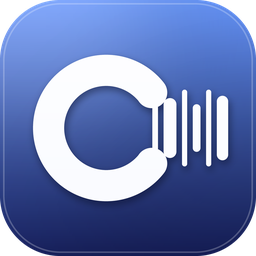
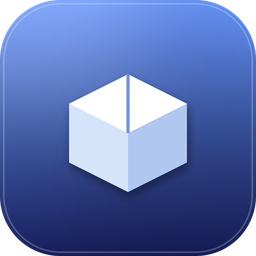
Icona definitiva: scatola di magazzino

Changed region(s): [[0.125, 0.1875, 0.9062, 0.8125]]

diff --git a/make_icon.py b/make_icon.py
@@ -1,8 +1,7 @@
-"""Genera l'icona di Census ERP: C stilizzata + codice a barre su gradiente blu.
+"""Genera l'icona di Census ERP: scatola di magazzino isometrica su gradiente blu.
 
 Output: icon.png (1024), icon_512.png, icon_256.png, icon.ico (multi-size), icon.icns (Mac).
 """
-import math
 from PIL import Image, ImageDraw, ImageFilter, ImageOps
 
 S = 1024          # dimensione finale
@@ -11,106 +10,82 @@ W = S * F
 
 C_TOP = (104, 152, 255)    # blu acceso in alto
 C_BOT = (24, 33, 96)       # indaco profondo in basso
-WHITE = (255, 255, 255, 255)
+
+# Facce della scatola (top più chiara, lati progressivamente più scuri)
+FACE_TOP   = (255, 255, 255, 255)
+FACE_LEFT  = (214, 228, 250, 255)
+FACE_RIGHT = (176, 200, 240, 255)
+FLAP_TOP   = (236, 244, 255, 255)
+FLAP_INNER = (198, 214, 242, 255)
 
 
-def _radial_highlight(size, center, radius, color):
-    """Crea un alone radiale morbido (per il riflesso 'vetro')."""
-    layer = Image.new('L', (size, size), 0)
-    d = ImageDraw.Draw(layer)
+def _squircle_mask():
+    m = Image.new('L', (W, W), 0)
+    ImageDraw.Draw(m).rounded_rectangle((0, 0, W - 1, W - 1), radius=int(W * 0.235), fill=255)
+    return m
+
+
+def _radial(center, radius, color):
+    layer = Image.new('L', (W, W), 0)
     cx, cy = center
-    d.ellipse((cx - radius, cy - radius, cx + radius, cy + radius), fill=255)
+    ImageDraw.Draw(layer).ellipse((cx - radius, cy - radius, cx + radius, cy + radius), fill=255)
     layer = layer.filter(ImageFilter.GaussianBlur(radius * 0.55))
-    out = Image.new('RGBA', (size, size), (0, 0, 0, 0))
-    solid = Image.new('RGBA', (size, size), color)
-    out.paste(solid, (0, 0), layer)
+    out = Image.new('RGBA', (W, W), (0, 0, 0, 0))
+    out.paste(Image.new('RGBA', (W, W), color), (0, 0), layer)
     return out
 
 
 def build():
-    radius = int(W * 0.235)
+    mask = _squircle_mask()
 
-    # --- Sfondo: squircle con gradiente verticale ---
+    # --- Sfondo squircle con gradiente verticale ---
     grad = Image.linear_gradient('L').resize((W, W))
-    bg_rgb = ImageOps.colorize(grad, black=C_TOP, white=C_BOT).convert('RGBA')
-
-    mask = Image.new('L', (W, W), 0)
-    ImageDraw.Draw(mask).rounded_rectangle((0, 0, W - 1, W - 1), radius=radius, fill=255)
-
+    bg = ImageOps.colorize(grad, black=C_TOP, white=C_BOT).convert('RGBA')
     img = Image.new('RGBA', (W, W), (0, 0, 0, 0))
-    img.paste(bg_rgb, (0, 0), mask)
+    img.paste(bg, (0, 0), mask)
 
     def clip(layer):
-        """Ritaglia un layer alla forma dello squircle."""
         return Image.composite(layer, Image.new('RGBA', (W, W), (0, 0, 0, 0)), mask)
 
-    # Riflesso 'vetro' diagonale in alto a sinistra
-    img = Image.alpha_composite(img, clip(
-        _radial_highlight(W, (W * 0.30, W * 0.20), W * 0.42, (255, 255, 255, 46))))
-    # Vignettatura scura in basso a destra per dare profondità
-    img = Image.alpha_composite(img, clip(
-        _radial_highlight(W, (W * 0.86, W * 0.92), W * 0.50, (8, 12, 44, 70))))
+    # Riflesso vetro + vignettatura per profondità
+    img = Image.alpha_composite(img, clip(_radial((W * 0.30, W * 0.20), W * 0.42, (255, 255, 255, 46))))
+    img = Image.alpha_composite(img, clip(_radial((W * 0.86, W * 0.92), W * 0.50, (8, 12, 44, 70))))
 
-    # Bordo interno luminoso (effetto bevel)
+    # Bordo interno luminoso (bevel)
     ring = Image.new('RGBA', (W, W), (0, 0, 0, 0))
     ImageDraw.Draw(ring).rounded_rectangle(
         (int(W * 0.012), int(W * 0.012), int(W - W * 0.012), int(W - W * 0.012)),
-        radius=int(radius * 0.96), outline=(255, 255, 255, 60), width=int(W * 0.006))
+        radius=int(W * 0.235 * 0.96), outline=(255, 255, 255, 60), width=int(W * 0.006))
     img = Image.alpha_composite(img, clip(ring))
 
-    # --- Motivo: C aperta + codice a barre realistico ---
-    cx, cy = W * 0.415, W * 0.50
-    stroke = W * 0.122
-    r_mid = W * 0.225
-    a1, a2 = 38, 322  # apertura della C verso destra
+    # --- Scatola isometrica chiusa (design pulito approvato) ---
+    cx, cy = W * 0.50, W * 0.52
+    s = W * 0.23       # mezza larghezza/altezza del cubo
 
-    def draw_arc(color, off=(0, 0), width_scale=1.0):
-        layer = Image.new('RGBA', (W, W), (0, 0, 0, 0))
+    def draw_box(layer):
         d = ImageDraw.Draw(layer)
-        sw = stroke * width_scale
-        r_out = r_mid + sw / 2
-        ox, oy = off
-        box = (cx - r_out + ox, cy - r_out + oy, cx + r_out + ox, cy + r_out + oy)
-        d.arc(box, start=a1, end=a2, fill=color, width=int(sw))
-        for a in (a1, a2):
-            rad = math.radians(a)
-            px, py = cx + r_mid * math.cos(rad) + ox, cy + r_mid * math.sin(rad) + oy
-            d.ellipse((px - sw / 2, py - sw / 2, px + sw / 2, py + sw / 2), fill=color)
-        return layer
+        # Faccia superiore (rombo)
+        d.polygon([(cx, cy - s), (cx + s, cy - s / 2), (cx, cy), (cx - s, cy - s / 2)], fill=FACE_TOP)
+        # Faccia sinistra
+        d.polygon([(cx - s, cy - s / 2), (cx, cy), (cx, cy + s), (cx - s, cy + s / 2)], fill=FACE_LEFT)
+        # Faccia destra
+        d.polygon([(cx, cy), (cx + s, cy - s / 2), (cx + s, cy + s / 2), (cx, cy + s)], fill=FACE_RIGHT)
+        # Nastro adesivo sul lembo superiore
+        d.line([(cx, cy - s), (cx, cy)], fill=(120, 150, 220, 255), width=int(W * 0.013))
 
-    def draw_bars(color, off=(0, 0)):
-        layer = Image.new('RGBA', (W, W), (0, 0, 0, 0))
-        d = ImageDraw.Draw(layer)
-        ox, oy = off
-        x = W * 0.595
-        # (larghezza, altezza relativa) — barre di altezze diverse come un vero barcode
-        bars = [(0.022, 1.00), (0.050, 0.78), (0.020, 1.00),
-                (0.030, 0.62), (0.020, 1.00), (0.044, 0.84)]
-        base_h = W * 0.150
-        for bw, hf in bars:
-            bw_px = W * bw
-            h = base_h * hf
-            d.rounded_rectangle((x + ox, cy - h + oy, x + bw_px + ox, cy + h + oy),
-                                radius=bw_px / 2, fill=color)
-            x += bw_px + W * 0.022
-        return layer
+    # Ombra portata
+    shadow_layer = Image.new('RGBA', (W, W), (0, 0, 0, 0))
+    draw_box(shadow_layer)
+    alpha = shadow_layer.getchannel('A')
+    shadow = Image.new('RGBA', (W, W), (0, 0, 0, 0))
+    shadow.paste(Image.new('RGBA', (W, W), (8, 14, 44, 120)), (int(W * 0.006), int(W * 0.018)), alpha)
+    shadow = shadow.filter(ImageFilter.GaussianBlur(W * 0.016))
+    img = Image.alpha_composite(img, clip(shadow))
 
-    # Ombra portata del motivo
-    shadow = Image.alpha_composite(
-        draw_arc((6, 10, 40, 120), off=(W * 0.006, W * 0.014)),
-        draw_bars((6, 10, 40, 120), off=(W * 0.006, W * 0.014)))
-    img = Image.alpha_composite(img, clip(shadow.filter(ImageFilter.GaussianBlur(W * 0.014))))
-
-    # Motivo bianco con leggero gradiente (più luminoso in alto)
-    motif = Image.alpha_composite(draw_arc(WHITE), draw_bars(WHITE))
-    shade = Image.linear_gradient('L').resize((W, W)).point(lambda v: 255 - int(v * 0.16))
-    motif_rgb = motif.copy()
-    motif_rgb.putalpha(Image.composite(motif.getchannel('A'),
-                                       Image.new('L', (W, W), 0), motif.getchannel('A')))
-    tint = ImageOps.colorize(shade, black=(214, 226, 255), white=WHITE[:3]).convert('RGBA')
-    tinted = Image.new('RGBA', (W, W), (0, 0, 0, 0))
-    tinted.paste(tint, (0, 0), motif.getchannel('A'))
-    img = Image.alpha_composite(img, tinted)
+    # Scatola
+    box_layer = Image.new('RGBA', (W, W), (0, 0, 0, 0))
+    draw_box(box_layer)
+    img = Image.alpha_composite(img, box_layer)
 
     return img.resize((S, S), Image.LANCZOS)
 